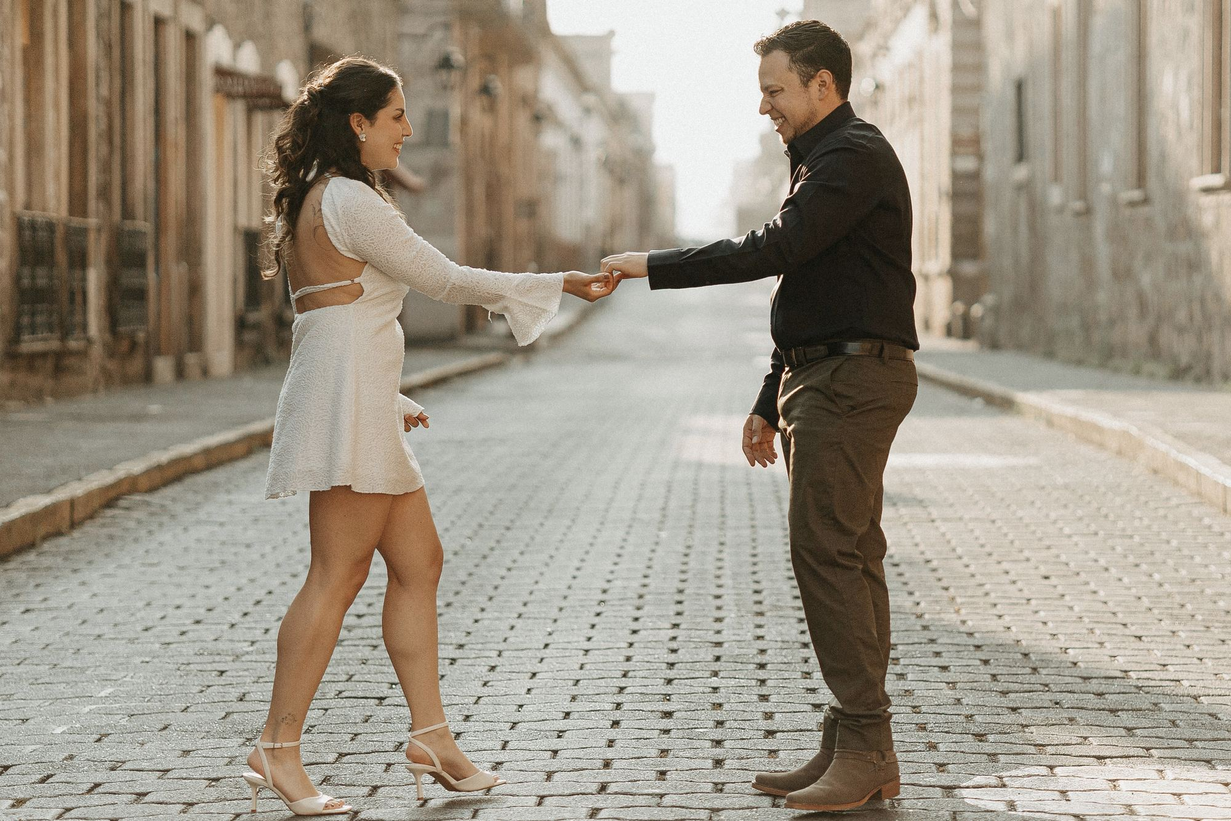
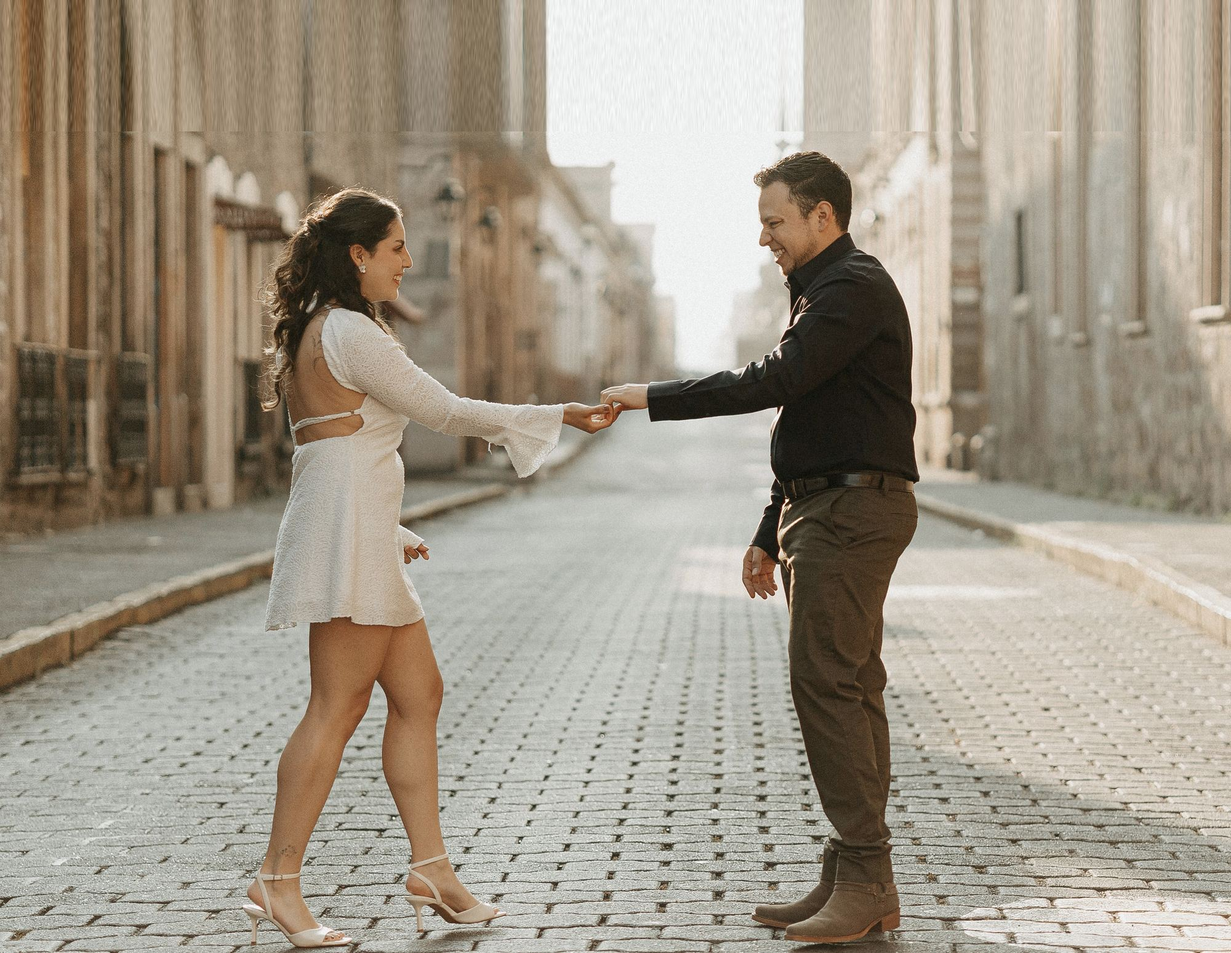
Daniel Reyes, y que el parallax deje de cortarles la cabeza
DANIEL REYES
Daniel, el marido de Enia Castro, es Daniel Reyes. Corregido en la lista,
en INVITACIONES.md y en la nota de correcciones.

EL SEPARADOR DE «CONTANDO LOS DÍAS»
Seguía cortándolos, y no era cosa del anclaje: el separador mete la foto
en un contenedor del 118% de alto con top:-9%, y encima el parallax lo
desplaza otro ±7%. Entre las dos cosas se esconde hasta el 15% de arriba.
Las cabezas estaban al 3% de la foto, así que salían cortados con
cualquier object-position — se probaron 0%, 6%, 12% y 18% y en los cuatro
seguían decapitados.

La solución no era mover el encuadre sino darle aire a la foto: lleva un
16% de alto añadido arriba, estirando su propia banda superior. Esa zona
está desenfocada y es un degradado suave, así que el estirón no se nota, y
las cabezas bajan del 3% al 16% y libran el recorte.

Verificado en los tres momentos del parallax —entrando, centrada y
saliendo—, no sólo con la sección centrada, que era el error de la vez
pasada: en los tres se les ve la cara completa.

Queda anotado en assets/README.md que un separador se revisa en los tres
momentos, no en uno.

Verificado además: cero errores de consola, cero imágenes rotas y sin
scroll horizontal en escritorio, móvil, prefers-reduced-motion y sin JS;
los links bonitos y el color al pasar el mouse o al centrarse siguen bien.

Claude-Session: https://claude.ai/code/session_013ATdvkiY23J3nWWssDzVth

diff --git a/index.html b/index.html
@@ -279,8 +279,9 @@
 
 <!-- ============================ SEPARADOR 3 ============================ -->
 <section data-dark="1" aria-hidden="true" style="position:relative;height:clamp(340px,60vh,620px);overflow:hidden;background:#3A0F16">
-<div data-parallax="1" style="position:absolute;left:0;right:0;top:-9%;height:118%;will-change:transform"><div data-photo="1" style="position:absolute;inset:0;filter:grayscale(1) contrast(1.04)"><!-- Anclado arriba: centrado el recorte les cortaba la cara -->
-<img loading="lazy" decoding="async" class="jm-fill" src="assets/foto-de-la-mano.jpeg" alt="" style="object-position:center 18%"></div></div>
+<div data-parallax="1" style="position:absolute;left:0;right:0;top:-9%;height:118%;will-change:transform"><div data-photo="1" style="position:absolute;inset:0;filter:grayscale(1) contrast(1.04)"><!-- El parallax esconde hasta un 15% de arriba y sus cabezas iban al 3%,
+     así que a esta foto se le extendió el cielo (ver assets/README.md) -->
+<img loading="lazy" decoding="async" class="jm-fill" src="assets/foto-de-la-mano.jpeg" alt="" style="object-position:center 6%"></div></div>
 <div style="position:absolute;inset:0;background:linear-gradient(180deg,rgba(58,15,22,.45),rgba(58,15,22,.2) 45%,rgba(58,15,22,.58));pointer-events:none"></div>
 <div style="position:absolute;inset:0;display:flex;align-items:center;justify-content:center;pointer-events:none"><div style="font-family:'NoirEtBlanc',serif;text-transform:uppercase;font-size:clamp(19px,2.8vw,34px);letter-spacing:.34em;color:#F6F4EE;text-shadow:0 2px 30px rgba(58,15,22,.6);text-align:center;padding:0 24px">contando los días</div></div>
 </section>

diff --git a/assets/README.md b/assets/README.md
@@ -108,10 +108,22 @@ fila— porque los novios la querían al medio, no abriendo.
     7 sentados        8 beso-alzada     9 risa
     10 frente-a-frente 11 cachetes      12 puerta-raava
 
-Los dos separadores llevan `object-position` propio, no el centro: en
-«donde todo empezó» el encuadre centrado salía casi puro cielo (va al 78%,
-anclado abajo) y en «contando los días» les cortaba la cara (va al 18%,
-anclado arriba). Si cambias la foto, vuelve a mirar el encuadre.
+Los separadores llevan `object-position` propio, no el centro: en «donde
+todo empezó» el encuadre centrado salía casi puro cielo, así que va al 78%,
+anclado abajo.
+
+**«Contando los días» necesitó más que un anclaje.** El separador mete la
+foto en un contenedor del 118% de alto con `top:-9%`, y el parallax lo
+mueve otro ±7%: entre las dos cosas se puede esconder hasta el 15% de
+arriba. Las cabezas de los novios estaban al 3% de la foto, así que salían
+cortados en cualquier anclaje. La solución fue **extenderle el cielo**:
+`foto-de-la-mano.jpeg` lleva un 16% de alto añadido arriba, estirando la
+banda superior de la propia foto —que está desenfocada y es un degradado
+suave, así que el estirón no se ve— y con eso las cabezas bajan al 16% y
+libran el recorte en todo el recorrido del scroll.
+
+Si cambias una foto de separador, mira el encuadre en los tres momentos del
+parallax (entrando, centrada y saliendo), no sólo con la sección centrada.
 
 Las fotos viejas (`foto-cerro`, `foto-desierto`, `foto-noche`,
 `foto-titulacion`, `foto-vinedo`) se quedan en el repo pero ya no se usan.

diff --git a/INVITACIONES.md b/INVITACIONES.md
@@ -79,7 +79,7 @@ Dos invitaciones de mentiras para ver las dos versiones del itinerario.
 | 29 | `/gabriela-cambron` | Gabriela y Arturo | 2 | No | Gabriela Cambrón, Arturo García |
 | 30 | `/elsa-cambron` | Elsa | 1 | No | Elsa Cambrón |
 | 31 | `/tania-castro` | Tania | 1 | No | Tania Castro |
-| 32 | `/enia-castro` | Enia, Daniel y Cristopher | 3 | No | Enia Castro, Daniel, Cristopher |
+| 32 | `/enia-castro` | Enia, Daniel y Cristopher | 3 | No | Enia Castro, Daniel Reyes, Cristopher |
 | 33 | `/marcia` | Marcia | 2 | No | Marcia, Invitado |
 | 34 | `/sebastian-silva` | Sebastián y Esther | 2 | No | Sebastián Silva, Esther Fernández |
 | 35 | `/victor-briseno` | Victor | 2 | No | Victor Briseño, invitado |
@@ -160,6 +160,7 @@ Dos invitaciones de mentiras para ver las dos versiones del itinerario.
   cuenta como pase y se puede llenar después. Quedan **18** así.
 - Correcciones aplicadas: Carmen, esposa de Manuel Tapia, es **Carmen Rodríguez**;
   Sebastián, el acompañante de Paloma, es **Sebastián Vargas Rumbo**; Diego, el
-  acompañante de Laura, es **Diego Zepeda Ornelas**.
+  acompañante de Laura, es **Diego Zepeda Ornelas**; Daniel, el marido de
+  Enia, es **Daniel Reyes**.
 - La cuenta del Excel (hoja 1) decía 171 entre invitados y extras; aquí salen
   176 porque cada «Invitado» sin nombre se cuenta como pase.
